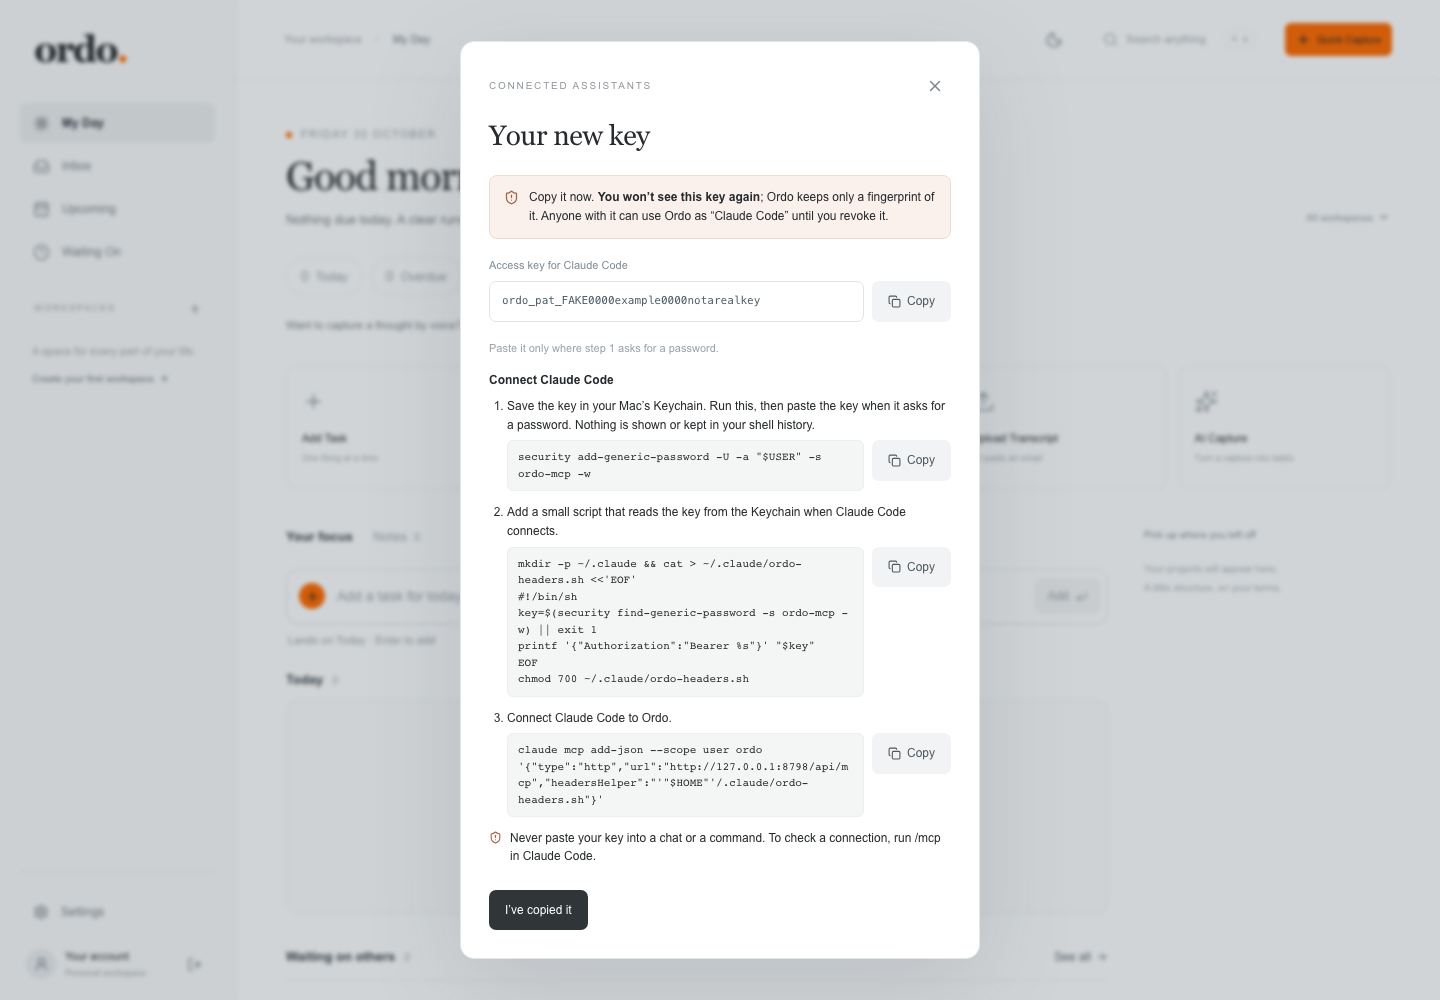
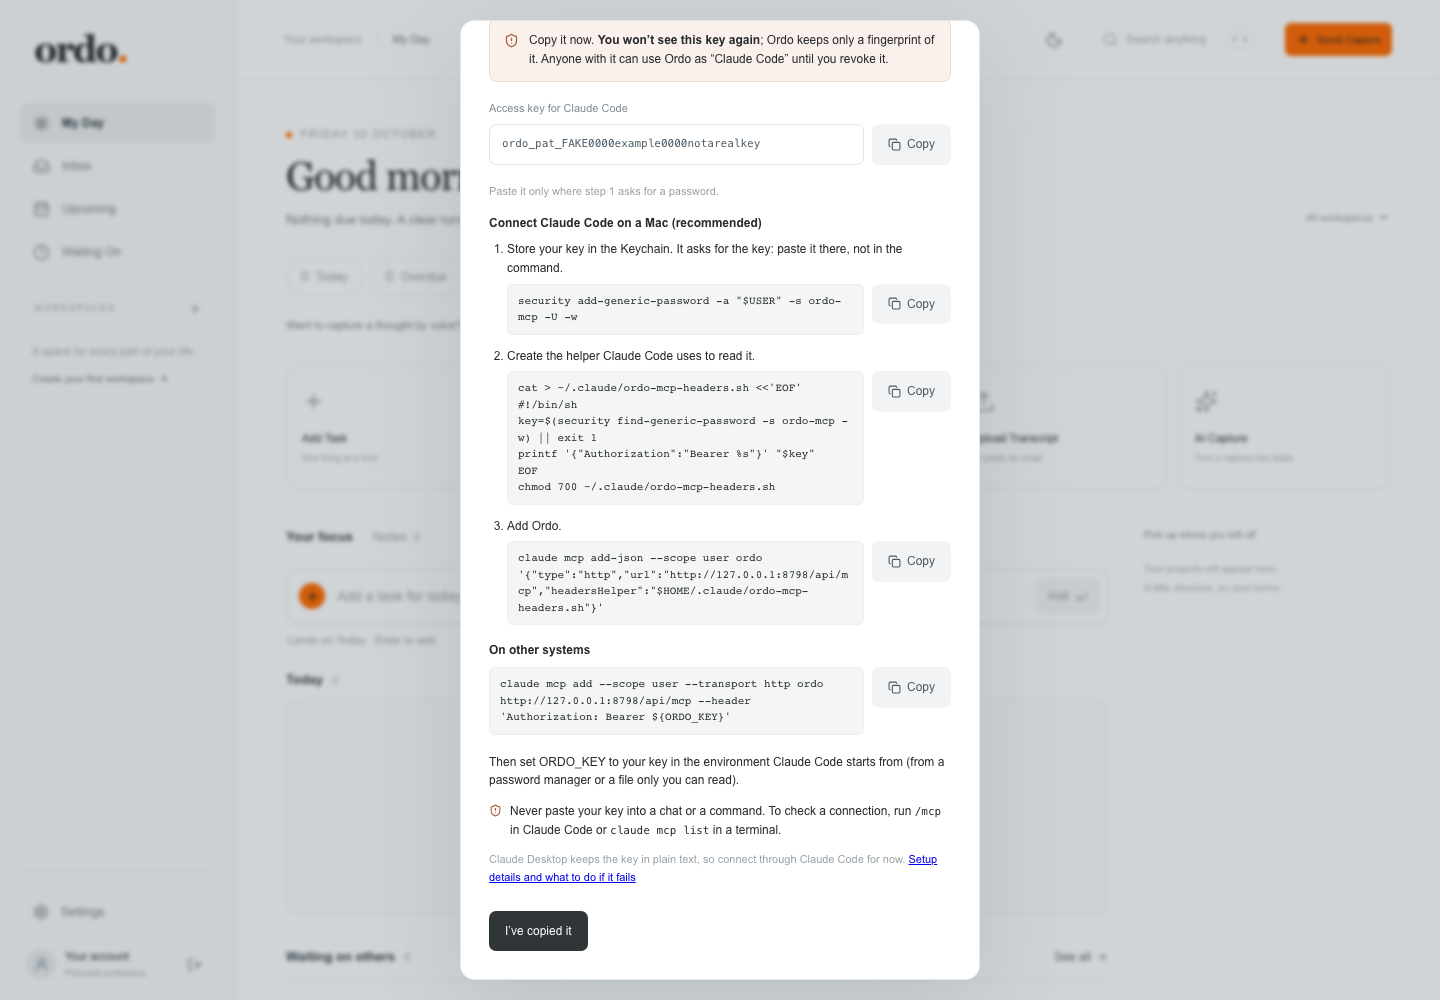
feat(web): the API's tested setup: Keychain on a Mac, ${ORDO_KEY} elsewhere
Uses the exact steps from the API (#41): store the key in the Keychain,
a headers helper that reads it, claude mcp add-json with that helper;
on other systems a header that Claude Code expands from ORDO_KEY. The
safety line now also mentions claude mcp list, the page links to
connecting an assistant, and Claude Desktop is only mentioned to say
connect through Claude Code for now. Tests pin the commands' quoting.

diff --git a/apps/web/components/assistants.tsx b/apps/web/components/assistants.tsx
@@ -28,6 +28,8 @@ import {
   keyStatus,
   mcpAddress,
   scopeLabel,
+  otherSystemsStep,
+  setupDetailsUrl,
   setupSteps,
   type ExpiryChoice,
 } from '../lib/agents';
@@ -100,35 +102,61 @@ function CopyField({
   );
 }
 
+/** A command with its own Copy. */
+function Command({ command, label }: { command: string; label: string }) {
+  return (
+    <div className="command-block">
+      <pre tabIndex={0} aria-label={label}>
+        <code>{command}</code>
+      </pre>
+      <CopyButton text={command} label={`Copy the ${label.toLowerCase()}`} />
+    </div>
+  );
+}
+
 /**
- * The setup steps, each command with its own Copy. No command holds the
- * key, so nothing here can leak it into a terminal or saved settings.
+ * The setup steps. No command holds the key, so nothing here can leak it
+ * into a terminal or Claude Code's saved settings.
  */
 function SetupSteps({ origin }: { origin: string }) {
+  const other = otherSystemsStep(origin);
   return (
     <section className="assistants-connect" aria-label="Connect Claude Code">
-      <h3>Connect Claude Code</h3>
+      <h3>Connect Claude Code on a Mac (recommended)</h3>
       <ol className="setup-steps">
         {setupSteps(origin).map((step, index) => (
           <li key={index}>
             <p>{step.text}</p>
             {step.command && (
-              <div className="command-block">
-                <pre tabIndex={0} aria-label={`Step ${index + 1} command`}>
-                  <code>{step.command}</code>
-                </pre>
-                <CopyButton
-                  text={step.command}
-                  label={`Copy the step ${index + 1} command`}
-                />
-              </div>
+              <Command
+                command={step.command}
+                label={`Step ${index + 1} command`}
+              />
             )}
           </li>
         ))}
       </ol>
+      <h3>On other systems</h3>
+      <div className="setup-steps setup-other">
+        <Command command={other.command!} label="Other systems command" />
+        <p>{other.text}</p>
+      </div>
       <p className="key-safety">
         <ShieldAlert size={13} aria-hidden="true" />
-        <span>{keySafetyLine}</span>
+        <span>
+          {keySafetyLine
+            .split(/(\/mcp|claude mcp list)/)
+            .map((part, index) =>
+              index % 2 ? <code key={index}>{part}</code> : part,
+            )}
+        </span>
+      </p>
+      <p className="field-hint">
+        Claude Desktop keeps the key in plain text, so connect through Claude
+        Code for now.{' '}
+        <a href={setupDetailsUrl} target="_blank" rel="noreferrer">
+          Setup details and what to do if it fails
+        </a>
       </p>
     </section>
   );
@@ -217,9 +245,9 @@ export function AssistantsDialog({
   return (
     <Dialog title="Connected assistants" eyebrow="SETTINGS" onClose={close}>
       <p className="muted">
-        Let an AI assistant such as Claude Code or Claude Desktop read and add
-        to your Ordo through MCP. Each assistant gets its own key, which you can
-        revoke at any time, and everything it does is listed under Activity.
+        Let an AI assistant such as Claude Code read and add to your Ordo
+        through MCP. Each assistant gets its own key, which you can revoke at
+        any time, and everything it does is listed under Activity.
       </p>
       <div className="agent-abilities">
         <div>

diff --git a/apps/web/lib/agents.ts b/apps/web/lib/agents.ts
@@ -41,8 +41,9 @@ export const mcpAddress = (origin: string) =>
 /**
  * How to connect Claude Code. These steps never take the key: a command
  * that holds it ends up in plain text in Claude Code's saved settings, and
- * in anything that prints them. The key is saved once, in the Keychain, and
- * read from there each time Claude Code connects.
+ * in anything that prints them. On a Mac the key is saved once, in the
+ * Keychain, and read from there each time Claude Code connects; elsewhere
+ * Claude Code reads it from ORDO_KEY.
  */
 export interface SetupStep {
   text: string;
@@ -50,27 +51,35 @@ export interface SetupStep {
 }
 export const setupSteps = (origin: string): SetupStep[] => [
   {
-    text: 'Save the key in your Mac’s Keychain. Run this, then paste the key when it asks for a password. Nothing is shown or kept in your shell history.',
-    command: 'security add-generic-password -U -a "$USER" -s ordo-mcp -w',
+    text: 'Store your key in the Keychain. It asks for the key: paste it there, not in the command.',
+    command: 'security add-generic-password -a "$USER" -s ordo-mcp -U -w',
   },
   {
-    text: 'Add a small script that reads the key from the Keychain when Claude Code connects.',
+    text: 'Create the helper Claude Code uses to read it.',
     command: [
-      "mkdir -p ~/.claude && cat > ~/.claude/ordo-headers.sh <<'EOF'",
+      "cat > ~/.claude/ordo-mcp-headers.sh <<'EOF'",
       '#!/bin/sh',
       'key=$(security find-generic-password -s ordo-mcp -w) || exit 1',
       `printf '{"Authorization":"Bearer %s"}' "$key"`,
       'EOF',
-      'chmod 700 ~/.claude/ordo-headers.sh',
+      'chmod 700 ~/.claude/ordo-mcp-headers.sh',
     ].join('\n'),
   },
   {
-    text: 'Connect Claude Code to Ordo.',
-    command: `claude mcp add-json --scope user ordo '{"type":"http","url":"${mcpAddress(origin)}","headersHelper":"'"$HOME"'/.claude/ordo-headers.sh"}'`,
+    text: 'Add Ordo.',
+    // Single quotes keep $HOME for the helper to expand when it connects.
+    command: `claude mcp add-json --scope user ordo '{"type":"http","url":"${mcpAddress(origin)}","headersHelper":"$HOME/.claude/ordo-mcp-headers.sh"}'`,
   },
 ];
+/** Not a Mac: Claude Code expands ${ORDO_KEY} itself, so the quotes stay single. */
+export const otherSystemsStep = (origin: string): SetupStep => ({
+  text: 'Then set ORDO_KEY to your key in the environment Claude Code starts from (from a password manager or a file only you can read).',
+  command: `claude mcp add --scope user --transport http ordo ${mcpAddress(origin)} --header 'Authorization: Bearer \${ORDO_KEY}'`,
+});
 export const keySafetyLine =
-  'Never paste your key into a chat or a command. To check a connection, run /mcp in Claude Code.';
+  'Never paste your key into a chat or a command. To check a connection, run /mcp in Claude Code or claude mcp list in a terminal.';
+export const setupDetailsUrl =
+  'https://github.com/edwadjei/ordo/blob/main/apps/api/src/domains/agent-access/agent-access.md#connecting-an-assistant';
 
 const toolWords: Record<string, string> = {
   get_my_day: 'Read My Day',

diff --git a/apps/web/test/agents.test.ts b/apps/web/test/agents.test.ts
@@ -10,6 +10,7 @@ import {
   expiresAt,
   keyStatus,
   mcpAddress,
+  otherSystemsStep,
   scopeLabel,
   setupSteps,
 } from '../lib/agents.ts';
@@ -63,22 +64,50 @@ test('the MCP address', () => {
 test('no setup command contains a key or a header with one in it', () => {
   // The steps take no key, so none can leak into a command or saved config.
   assert.equal(setupSteps.length, 1);
+  assert.equal(otherSystemsStep.length, 1);
   for (const origin of ['https://ordo.example.test', 'http://127.0.0.1:8798']) {
-    const commands = setupSteps(origin).flatMap((s) => s.command ?? []);
-    assert.ok(commands.length > 0);
+    const commands = [...setupSteps(origin), otherSystemsStep(origin)].flatMap(
+      (step) => step.command ?? [],
+    );
+    assert.equal(commands.length, 4);
     for (const command of commands) {
       assert.doesNotMatch(command, /ordo_pat_[A-Za-z0-9_-]/);
       assert.doesNotMatch(command, /Bearer\s+[A-Za-z0-9_-]{8,}/);
-      assert.doesNotMatch(command, /--header/);
+      assert.ok(
+        command.includes(mcpAddress(origin)) || !command.includes('http'),
+      );
     }
-    assert.ok(commands.some((c) => c.includes(mcpAddress(origin))));
   }
+});
+
+test('the setup commands keep the quotes that stop the shell expanding them', () => {
+  const [store, helper, add] = setupSteps('https://ordo.example.test');
+  assert.equal(
+    store.command,
+    'security add-generic-password -a "$USER" -s ordo-mcp -U -w',
+  );
+  assert.match(
+    helper.command!,
+    /^cat > ~\/\.claude\/ordo-mcp-headers\.sh <<'EOF'\n/,
+  );
+  assert.match(
+    helper.command!,
+    /\nchmod 700 ~\/\.claude\/ordo-mcp-headers\.sh$/,
+  );
+  assert.equal(
+    add.command,
+    `claude mcp add-json --scope user ordo '{"type":"http","url":"https://ordo.example.test/api/mcp","headersHelper":"$HOME/.claude/ordo-mcp-headers.sh"}'`,
+  );
+  assert.equal(
+    otherSystemsStep('https://ordo.example.test').command,
+    "claude mcp add --scope user --transport http ordo https://ordo.example.test/api/mcp --header 'Authorization: Bearer ${ORDO_KEY}'",
+  );
 });
 
 test('the safety line says not to paste the key and how to check', () => {
   assert.equal(
     keySafetyLine,
-    'Never paste your key into a chat or a command. To check a connection, run /mcp in Claude Code.',
+    'Never paste your key into a chat or a command. To check a connection, run /mcp in Claude Code or claude mcp list in a terminal.',
   );
 });
 

diff --git a/apps/web/app/globals.css b/apps/web/app/globals.css
@@ -3430,6 +3430,19 @@ fieldset:disabled select {
 .setup-steps p {
   margin: 0 0 6px;
 }
+.setup-other p {
+  margin: 6px 0 0;
+}
+.assistants-connect h3 + .setup-other {
+  padding-left: 0;
+}
+.setup-steps + h3 {
+  margin-top: 16px;
+}
+.key-safety code {
+  font-family: ui-monospace, SFMono-Regular, Menlo, monospace;
+  font-size: 11px;
+}
 .command-block {
   display: flex;
   gap: 8px;

diff --git a/apps/web/README.md b/apps/web/README.md
@@ -37,7 +37,7 @@ Sign in or create an account with an email address or Ghana phone number and a s
 - Task detail moves a top-level task under **Where it lives** (workspace, then project, or the Personal or Workspace Inbox); its subtasks move with it, the panel says how many, and the list updates without a reload. A subtask says to move its parent instead.
 - Task detail has a **Related** section (`components/related-items.tsx`, from `GET /tasks/:id/related`): **From the same capture** lists the other tasks and drafts saved from the task's source note, and **Linked notes** lists notes linked by hand, with **Link a note** (a picker that searches note titles and previews, nearest project first) and **Unlink**. Each item opens; linking needs a connection.
 - **Archive and delete:** the gear on a workspace or project header opens its settings: **Archive** hides it and everything in it from My Day, Inbox, lists and pickers (nothing is lost) and **Restore** brings it back; archived ones are listed under **Archived** in the sidebar, and ⌘K search finds their items only with **Include archived** ticked (marked "Archived · restore to open"; choosing one opens its scope's settings to restore it). **Delete permanently** sits in a separate danger section: it shows what will go ("Deletes 2 projects, 14 tasks, 6 notes and 1 draft."), asks for the exact name, and only then enables the button; afterwards Ordo returns to My Day. The last workspace says it can't be deleted. Archiving and deleting need a connection. The logic is in `lib/organize.ts`.
-- **Connected assistants** (Settings › Connected assistants, `components/assistants.tsx`): the MCP address (`<origin>/api/mcp`) and numbered Claude Code setup steps, each command with Copy, that save the key in the Keychain and never put it in a command or saved settings, under "Never paste your key into a chat or a command. To check a connection, run /mcp in Claude Code."; access keys with scope, last use, expiry and **Revoke** (confirmed); and **Create a key** (name, Read only or Read and write, expiry). A new key is shown once, with Copy and "You won't see this key again", on its own, with the same setup steps; it exists only in that screen's memory and is never written to browser storage. Each key's **Activity** lists what it did in words ("Created task “…”"), newest first with Show older, linking to the item. Assistants can also create workspaces and projects: Activity reads "Created workspace “DOSH”" and "Created project “Verify” in MTN" (linking to them), and the help text lists what an assistant can and can't do. Tasks, notes, workspaces and projects an assistant made say **By agent · <key name>** in lists, the task panel, the note editor, and project and workspace headers and settings. Creating a workspace or project whose name already exists opens that one and says so ("You already have a workspace called “Work”. Opened it.") (`lib/agents.ts`, `components/agent-names.tsx`).
+- **Connected assistants** (Settings › Connected assistants, `components/assistants.tsx`): the MCP address (`<origin>/api/mcp`) and numbered Claude Code setup steps, each command with Copy, that never put the key in a command or saved settings (on a Mac the key goes in the Keychain and a headers helper reads it; elsewhere Claude Code reads `${ORDO_KEY}`), under "Never paste your key into a chat or a command. To check a connection, run /mcp in Claude Code or claude mcp list in a terminal." and a link to [connecting an assistant](../api/src/domains/agent-access/agent-access.md#connecting-an-assistant); Claude Desktop isn't offered for now; access keys with scope, last use, expiry and **Revoke** (confirmed); and **Create a key** (name, Read only or Read and write, expiry). A new key is shown once, with Copy and "You won't see this key again", on its own, with the same setup steps; it exists only in that screen's memory and is never written to browser storage. Each key's **Activity** lists what it did in words ("Created task “…”"), newest first with Show older, linking to the item. Assistants can also create workspaces and projects: Activity reads "Created workspace “DOSH”" and "Created project “Verify” in MTN" (linking to them), and the help text lists what an assistant can and can't do. Tasks, notes, workspaces and projects an assistant made say **By agent · <key name>** in lists, the task panel, the note editor, and project and workspace headers and settings. Creating a workspace or project whose name already exists opens that one and says so ("You already have a workspace called “Work”. Opened it.") (`lib/agents.ts`, `components/agent-names.tsx`).
 - Task detail edits due and follow-up dates with optional times (clearing a date clears its time in the same save), plus Responsible and Waiting on names, with suggestions from names already used. Only changed fields are sent. Rows show times and "Waiting on <name>" everywhere.
 - Rich notes stored as Markdown text in `body` (existing plain-text notes are already valid). Write mode is a textarea with a formatting toolbar (Heading, Bulleted list, Numbered list, Checklist, Bold, Italic, Link; arrow keys move along it) and shortcuts ⌘/Ctrl+B, I and K; Enter continues a list and Enter on an empty item ends it. Read mode, the default for a note with text, shows the formatting, and checklist items tick in place, which autosaves. `lib/markdown.ts` parses the supported subset into plain data and `components/rich-note.tsx` renders it as React elements: note text is never rendered as HTML (no `dangerouslySetInnerHTML`), raw HTML stays visible as text, and only `http`, `https` and `mailto` links become links, opened in a new tab with `rel="noopener noreferrer"`; any other link stays as the text typed. The editor and parser load only when a note opens (`next/dynamic`), so My Day's first load does not include them; once the service worker is installed they are fetched at idle so notes open offline too. Note cards show a plain preview without the marks.
 - Note lists (`/home`, `/notes`) carry each note's `preview` (its first 280 characters) and `bodyLength`, not its body; cards add "…" when the preview is only the start. Opening a note fetches `GET /notes/:id` behind a short "Opening…" state, and only then shows read mode or the editor, so no edit or checklist tick can start from a preview (`lib/open-note.ts`, `components/note-loader.tsx`). Each opened note's full body is kept per account in this browser (`@ordo/client/note-bodies`, the 50 most recent), refreshed on every save, so it stays readable offline as a read-only copy; a note never opened here shows its preview and "Open online to read the whole note."
